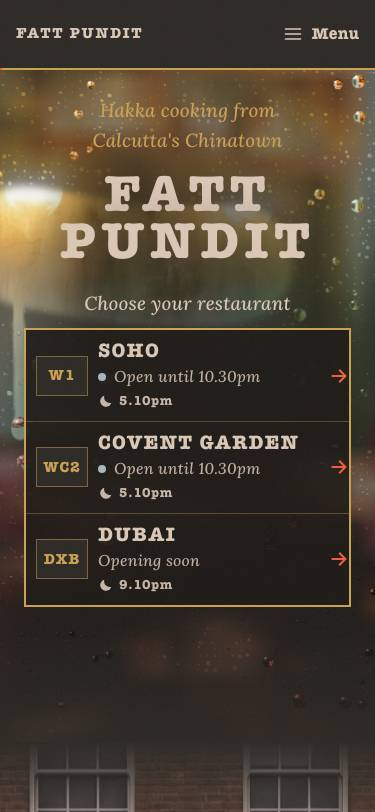
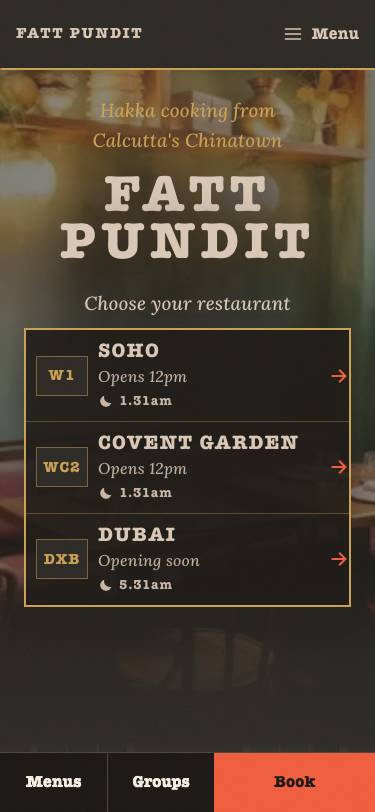
docs(audit): B-26 home JS budget met; measuring script and frames
Refs: AUDIT B-26

diff --git a/audit/CHANGELOG.md b/audit/CHANGELOG.md
@@ -15,3 +15,4 @@ One line per scene: what changed, and where the before/after frames are (audit/s
 - **S11 Goodbye + footer (U-05)** — the warm light over the goodbye dims as you leave (view timeline). Footer condensed with layout only (same links and words): phones show each room as two lines (name + today's status, Call + Book) with the rest behind "Address and hours", socials as icons (names kept as the links' names, 44 px targets), a three-column index, a smaller wordmark and tighter legal; desktop puts keep-in-touch on one line and tightens spacing. Footer height (excluding the home-only goodbye): phone ~2,110 → ~1,380 px, desktop ~1,660 → ~1,370 px. axe clean. Frames: `goodbye-*--{375,1280}.jpg`, `footer-soho--{375,1280}.jpg`.
 - **S12 Between pages** — already had: cross-document view transitions, each room's pass morphing into its page's arrival (`branch-*`), off in reduced motion. Added: the site header keeps its own transition group, so it stays put while the page underneath changes. Playwright (`transitions.spec.ts`) confirms home → Soho starts a transition (outgoing `pageswap`) with the header and room named on both sides, and none with reduced motion. Flag: headless Chromium under phone emulation often skips the reveal on the incoming page (timing), so the test checks the outgoing side.
 - **U-04 Book one tap away (phones)** — the bottom dock (Menus · Groups · Book) no longer slides away on every scroll down; it stays through the long scenes and steps aside only while a text field has focus (keyboard up). /our-story/'s chapter chip now sits just above the dock instead of hiding with it. Playwright: `a11y.spec.ts` "phone: the dock Book stays on screen while scrolling down".
+- **B-26 Home JS budget** — a first visit to home now loads 69 KB of JS (was 148.5 KB; target < 100 KB). React no longer loads until you scroll to the voyage: the rain glass (`src/lib/rain-glass.ts` + `RainHero.astro`) and the intro's flap board (`src/lib/split-flap.ts`) are plain DOM, with the same look and timing. The rain doesn't start on a software WebGL renderer (no GPU), so the fogged still stays, as it already did without WebGL; the "wipe the glass" hint only shows when the glass is live. The hero still (the LCP image, soft by design under fog and ink) is requested at half the screen's pixels: 75 KB → ~22 KB on phones. Lighthouse mobile (`perf:budget`, 3 runs): home 88 / 90 / 91 (was 73–78), TBT 0 ms (was 380–520), weight 1091 KB (was 1412), CLS 0.009. Measure: `node audit/scripts/js-weight.mjs /`. Frames: `arrival-*`, `hero-*--{375,1280}.jpg` (headless uses software WebGL, so these show the still).

diff --git a/audit/AUDIT.md b/audit/AUDIT.md
@@ -68,7 +68,8 @@ Branch `redesign/premium-audit`. One commit per ID, plus follow-ups that cite th
 | B-24 | ✅ | 10268c5 | `jsonld.spec.ts`; `audit/data/jsonld-dump.txt` (Dubai: none; Soho and Covent Garden: Restaurant) |
 | Host | ✅ | 1783692 | `vercel.json`: host-matched apex → www, permanent (308); `robots.test.ts` |
 | Perf | ✅ | 7292cd1 (B-22), d4065f1, dad380c | Curtain fallback removed once live; map 1000 → 750 px (107 → 73 KB); voyage stamps 300 → 200 px; sitemap `lastmod` |
-| B-23, B-26 | ➡ Phase 3 | — | The home menu and islands depend on the Direction C storyboard |
+| B-23 | ➡ open | — | The home menu still ships all 10 menus inside the MenuBook island (loads on approach, after first paint) |
+| B-26 | ✅ fixed | perf/home-js | First-visit home JS 148.5 → 69 KB: no React before the voyage (rain glass and intro board are plain DOM); rain skipped on software WebGL; smaller soft hero still. Lighthouse home 88–91 (was 77), TBT 0, 1091 KB |
 
 Harness: smoke 8/8 (e07b68e); `perf:taps` all < 200 ms at 4× CPU; the booking e2e covers both rooms × 2/4/7/8 × today/+3.
 

diff --git a/tasks/todo.md b/tasks/todo.md
@@ -138,4 +138,4 @@ Per scene: before/after frames at 375 + 1280 (audit/screens/{before,after}/scene
 - [x] S11 Goodbye + footer: lamps dim; footer one screen (U-05) — done: phone footer ~2,110 → ~1,380 px (≈1.7 screens; every link kept), desktop ~1,660 → ~1,370; axe clean; e2e green
 - [x] S12 Page transitions: cross-document view transitions (room name, header) — done: header group added (room morph existed); transitions.spec.ts 4/4
 - [x] U-04 Book one tap away on phones through the long scenes (proof: tests/e2e/a11y.spec.ts dock test)
-- [ ] B-26 home JS budget on track (< 100 KB): new motion in CSS/small scripts, no new islands
+- [x] B-26 home JS budget (< 100 KB): first-visit JS 148.5 → 69 KB; Lighthouse home 77 → 88–91, TBT 0, 1091 KB (proof: audit/scripts/js-weight.mjs, npm run perf:budget ×3; audit/CHANGELOG.md)
